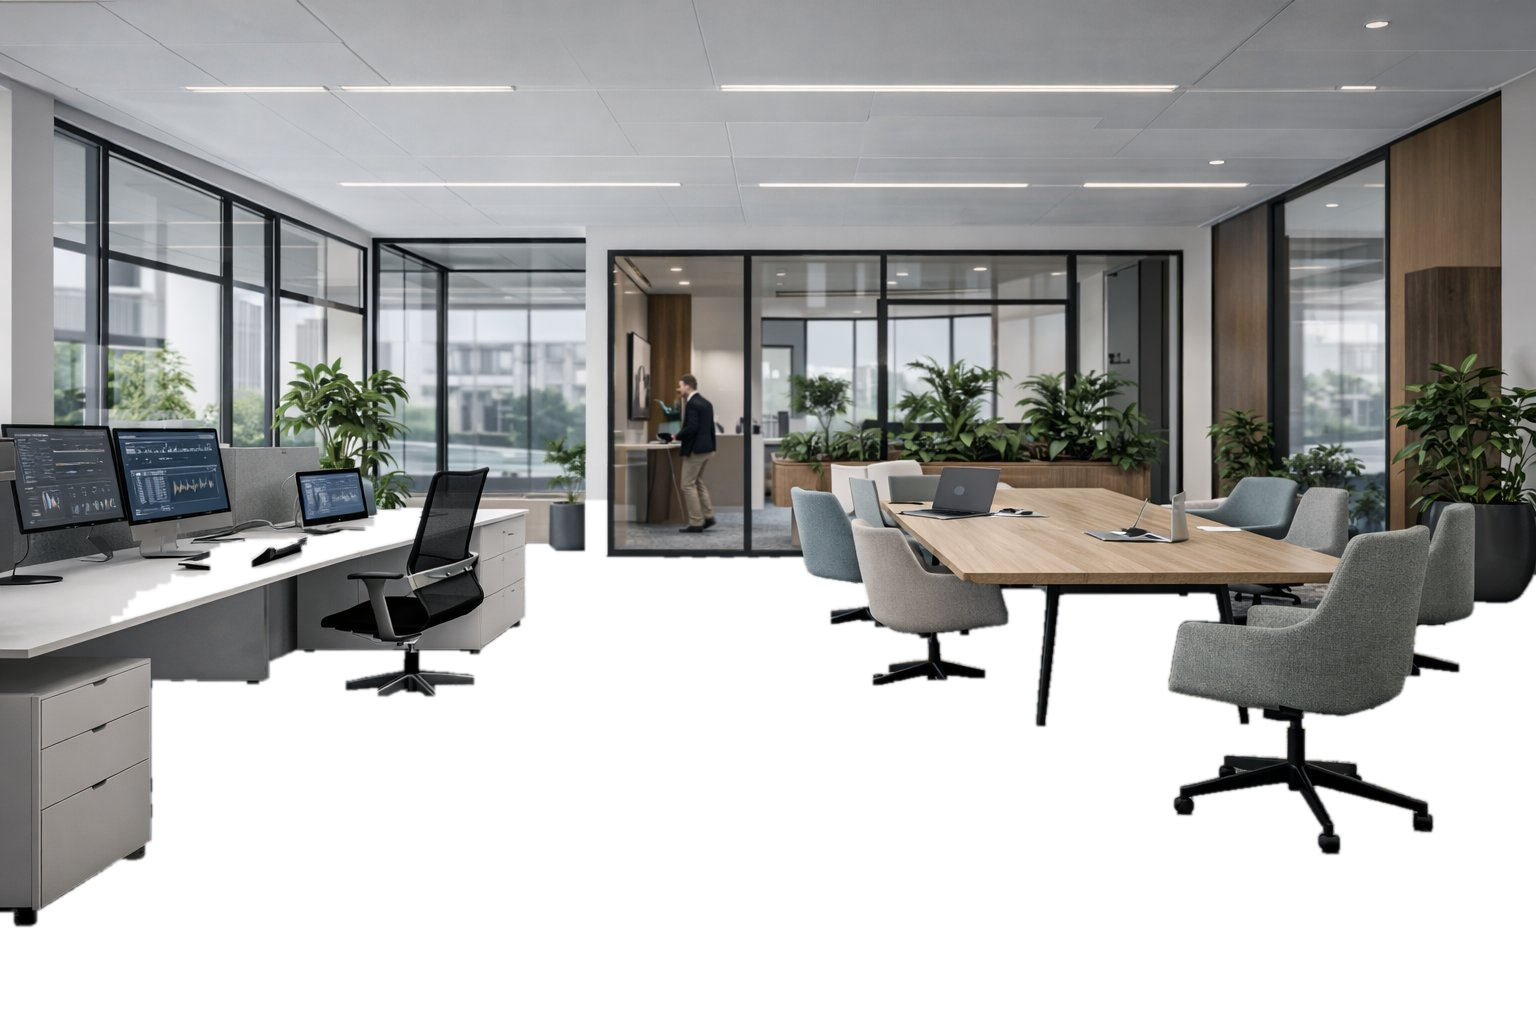
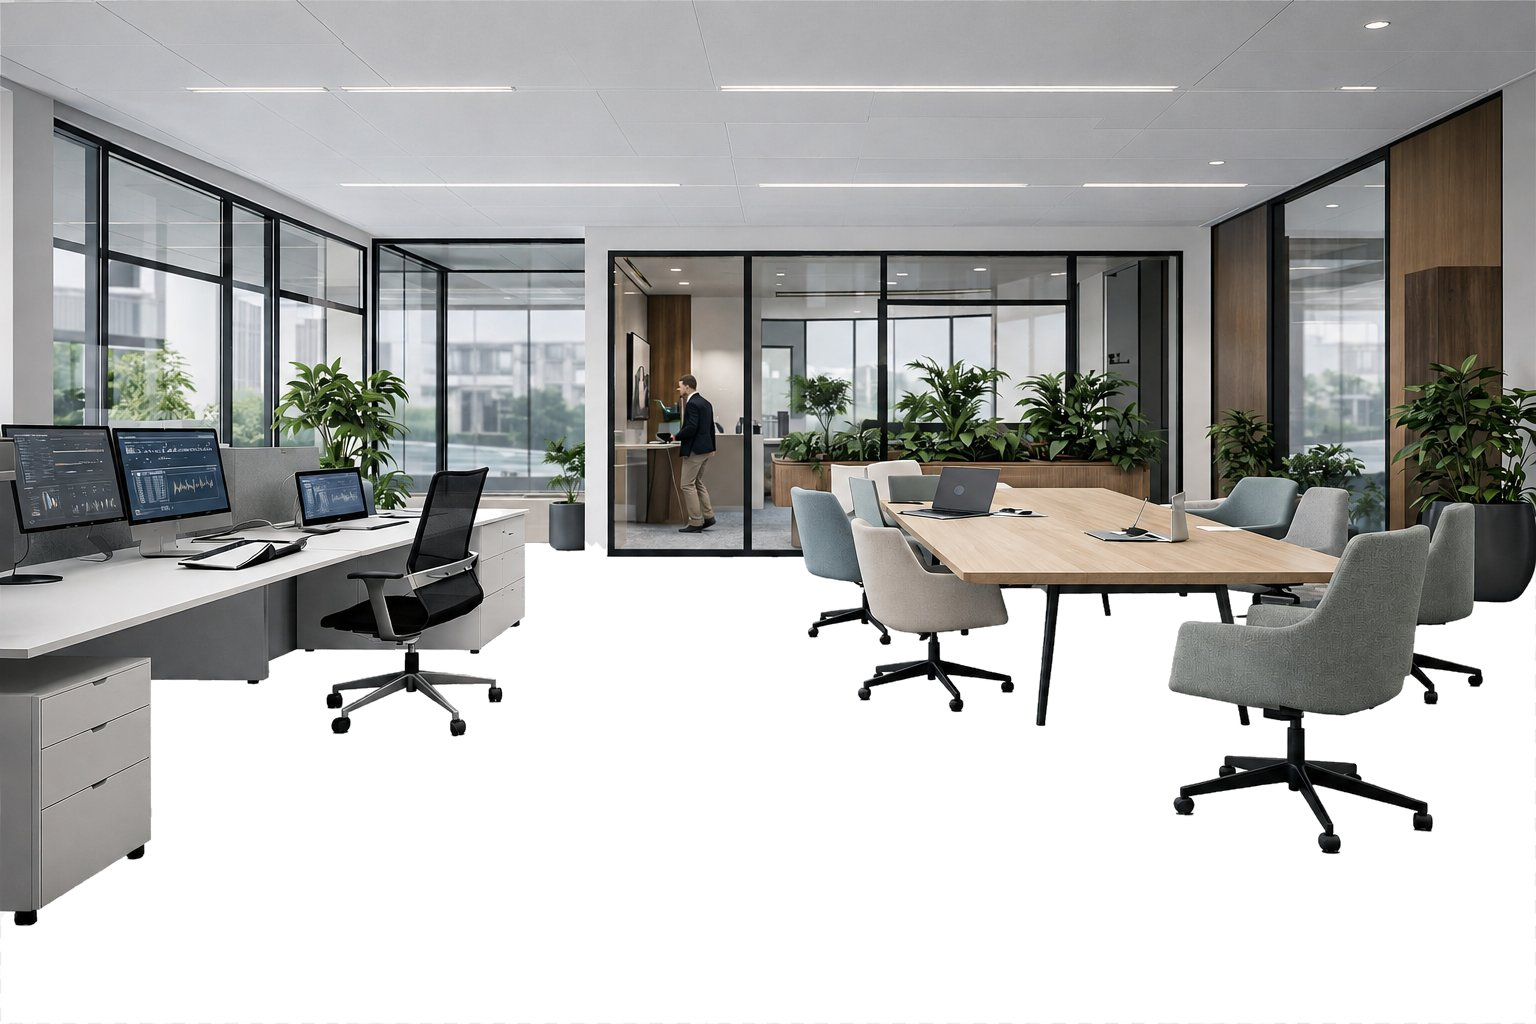
Floorvisualizer: meubellaag + dessinvlak fix; nieuwe stijl Hoogtelijnen

diff --git a/templates/index.html b/templates/index.html
@@ -63,6 +63,7 @@
           <button class="chip" onclick="setPrompt('chevronbold patroon, gevulde schuine plankjes, zwart wit')">Chevron Bold</button>
           <button class="chip" onclick="setPrompt('Alleen cirkels, strak en minimalistisch')">Cirkels</button>
           <button class="chip" onclick="setPrompt('Dots stippen patroon, polka dots')">Dots</button>
+          <button class="chip" onclick="setPrompt('hoogtelijnen patroon, style:hoogtelijnen, topografie contourlijnen')">Hoogtelijnen</button>
           <button class="chip" onclick="setPrompt('houndstooth patroon, hanenpoot pied-de-poule, zwart wit')">Houndstooth</button>
           <button class="chip" onclick="setPrompt('Scandinavisch knitwerk patroon, gebreide steken, zigzag banden in blauw en wit')">Knitwerk</button>
           <button class="chip" onclick="setPrompt('Medaillon geometrisch tegelmotief, donkerblauw en diep rood met gouden accenten')">Medaillon</button>
@@ -434,6 +435,6 @@
       </div>
     </div>
   </div>
-  <script src="/static/js/app.js?v=20260612_100122"></script>
+  <script src="/static/js/app.js?v=20260612_162058"></script>
 </body>
 </html>

diff --git a/static/js/app.js b/static/js/app.js
@@ -418,7 +418,7 @@ document.addEventListener('DOMContentLoaded', () => {
 (function(){
   var SRC = 600;
   /* vloer-hoekpunten als fractie van de scene (TL,TR,BL,BR) */
-  var FR = [[0.150,0.547],[0.814,0.547],[-0.230,1.0],[1.107,1.0]];
+  var FR = [[0.150,0.547],[1.02,0.547],[-0.230,1.0],[1.107,1.0]];
   function adj(m){return [m[4]*m[8]-m[5]*m[7],m[2]*m[7]-m[1]*m[8],m[1]*m[5]-m[2]*m[4],m[5]*m[6]-m[3]*m[8],m[0]*m[8]-m[2]*m[6],m[2]*m[3]-m[0]*m[5],m[3]*m[7]-m[4]*m[6],m[1]*m[6]-m[0]*m[7],m[0]*m[4]-m[1]*m[3]];}
   function mmm(a,b){var c=[];for(var i=0;i<3;i++)for(var j=0;j<3;j++){var s=0;for(var k=0;k<3;k++)s+=a[3*i+k]*b[3*k+j];c[3*i+j]=s;}return c;}
   function mmv(m,v){return [m[0]*v[0]+m[1]*v[1]+m[2]*v[2],m[3]*v[0]+m[4]*v[1]+m[5]*v[2],m[6]*v[0]+m[7]*v[1]+m[8]*v[2]];}

diff --git a/modules_extra.py b/modules_extra.py
@@ -555,3 +555,63 @@ def generate_urban_plaid_svg(palette, tile_size, complexity):
     for y, w, col in bands:
         parts.append('<rect x="0" y="%.2f" width="%.1f" height="%.2f" fill="%s" opacity="%s"/>' % (y, T, w, col, op))
     return '\n'.join(parts)
+
+
+# ---- Hoogtelijnen (topografische contourlijnen) - naadloos ----
+def _topo_segments(T, complexity):
+    fmax = {'low':3.4,'medium':4.6,'high':6.2}.get(complexity,4.6)
+    levn = {'low':11,'medium':14,'high':18}.get(complexity,14)
+    G = 120
+    rng = random.Random(7)
+    comps=[]
+    for _ in range(28):
+        fr = rng.uniform(1.0,fmax); ang=rng.uniform(0,2*math.pi)
+        u = round(fr*math.cos(ang)); v=round(fr*math.sin(ang))
+        if u==0 and v==0: u=1
+        comps.append((u,v,1.0/fr,rng.uniform(0,2*math.pi)))
+    F=[[0.0]*(G+1) for _ in range(G+1)]
+    mn=1e9; mx=-1e9
+    for i in range(G+1):
+        y=i/G
+        for j in range(G+1):
+            x=j/G; s=0.0
+            for (u,vv,a,ph) in comps:
+                s+=a*math.cos(2*math.pi*(u*x+vv*y)+ph)
+            F[i][j]=s
+            if s<mn:mn=s
+            if s>mx:mx=s
+    rg=mx-mn or 1.0
+    for i in range(G+1):
+        for j in range(G+1):
+            F[i][j]=(F[i][j]-mn)/rg
+    def ep(L,ax,ay,av,bx,by,bv):
+        d=bv-av; t=0.5 if abs(d)<1e-12 else (L-av)/d
+        return (ax+(bx-ax)*t, ay+(by-ay)*t)
+    sc=T/G; segs=[]
+    levels=[0.06+(0.94-0.06)*k/(levn-1) for k in range(levn)]
+    for L in levels:
+        for i in range(G):
+            for j in range(G):
+                a=F[i][j]>=L; b=F[i][j+1]>=L; c=F[i+1][j+1]>=L; d=F[i+1][j]>=L
+                code=(a)|(b<<1)|(c<<2)|(d<<3)
+                if code==0 or code==15: continue
+                av=F[i][j]; bv=F[i][j+1]; cv=F[i+1][j+1]; dv=F[i+1][j]
+                P={}
+                if a!=b: P['T']=ep(L,j,i,av,j+1,i,bv)
+                if b!=c: P['R']=ep(L,j+1,i,bv,j+1,i+1,cv)
+                if c!=d: P['B']=ep(L,j+1,i+1,cv,j,i+1,dv)
+                if d!=a: P['L']=ep(L,j,i+1,dv,j,i,av)
+                e=list(P)
+                if len(e)==2:
+                    segs.append((P[e[0]],P[e[1]]))
+                elif len(e)==4:
+                    segs.append((P['T'],P['R'])); segs.append((P['B'],P['L']))
+    return [((p[0]*sc,p[1]*sc),(q[0]*sc,q[1]*sc)) for (p,q) in segs]
+
+def generate_hoogtelijnen_svg(palette, tile_size, complexity):
+    T=tile_size; k=_palet(palette); line=k[1]; lw=max(1.0, T/230.0)
+    segs=_topo_segments(T, complexity)
+    d=''.join('M{:.1f} {:.1f}L{:.1f} {:.1f}'.format(p[0],p[1],q[0],q[1]) for (p,q) in segs)
+    return ('<rect width="{T}" height="{T}" fill="{bg}"/>'
+            '<path d="{d}" stroke="{line}" stroke-width="{lw:.2f}" fill="none" stroke-linecap="round"/>'
+            ).format(T=T,bg=k[0],d=d,line=line,lw=lw)

diff --git a/app.py b/app.py
@@ -20,6 +20,7 @@ import anthropic
 from PIL import Image, ImageDraw
 from modules_extra import generate_strepen_svg, generate_mozaiek_svg, generate_chevron_svg, generate_hexagoon_svg, generate_ogee_svg, generate_diamant_svg, generate_terrazzo_svg, generate_vrije_vormen_svg, generate_visgraat_svg, generate_dots_svg, generate_visgraat_lijn_svg, generate_bamboe_svg, generate_artdeco_svg, generate_chevron_bold_svg, generate_houndstooth_svg, generate_urban_plaid_svg
 from modules_extra import generate_artdeco_svg, generate_artdeco_hex_svg
+from modules_extra import generate_hoogtelijnen_svg
 
 app = Flask(__name__)
 CORS(app)
@@ -433,6 +434,7 @@ STYLE_GENERATORS = {
     "terrazzo": generate_terrazzo_svg,
     "visgraat": generate_visgraat_lijn_svg,
     "dots": generate_dots_svg,
+    "hoogtelijnen": generate_hoogtelijnen_svg,
     "vrije_vormen": generate_vrije_vormen_svg,
     "bamboe": generate_bamboe_svg,
     "art_deco_hex": generate_artdeco_hex_svg,
@@ -448,6 +450,8 @@ def build_tile_svg(analysis: dict, tile_size: int = 400, motief_schaal: int = 10
         style = "bauhaus"
     elif style == "knitwerk" or any(w in p for w in ['knitwerk', 'knit', 'gebreid', 'breiwerk', 'fair isle', 'noorse trui', 'nordic', 'scandinavisch', 'noors', 'sneeuwvlok']):
         style = "knitwerk"
+    elif style == "hoogtelijnen" or any(w in p for w in ["hoogtelijn", "topografie", "contour"]):
+        style = "hoogtelijnen"
     elif any(w in p for w in ["streep", "strepen", "stripe"]):
         style = "strepen"
     elif any(w in p for w in ["mozaiek", "pixel", "blokje"]):
@@ -477,6 +481,8 @@ def build_tile_svg(analysis: dict, tile_size: int = 400, motief_schaal: int = 10
         pass
     elif style == "knitwerk":
         pass
+    elif style == "hoogtelijnen" or any(w in prompt_lower for w in ["hoogtelijn", "topografie", "contour"]):
+        style = "hoogtelijnen"
     elif any(w in prompt_lower for w in ["streep", "strepen", "stripe", "verticale lijn"]):
         style = "strepen"
     elif any(w in prompt_lower for w in ["mozaiek", "pixel", "blokje"]):
@@ -526,7 +532,7 @@ def build_tile_svg(analysis: dict, tile_size: int = 400, motief_schaal: int = 10
     if n < 1:
         n = 1
     g = TEGEL // n  # interne grootte waarop de generator tekent
-    extra_styles = ["bauhaus","knitwerk","strepen","mozaiek","chevron","chevron_bold","houndstooth","urban_plaid","hexagon","ogee","diamant","terrazzo","vrije_vormen","dots","dots","vlechtwerk","visgraat","batik","botanical","floral","nordic","persian","medallion","abstract","bamboe","art_deco","art_deco_hex"]
+    extra_styles = ["bauhaus","knitwerk","strepen","mozaiek","chevron","chevron_bold","houndstooth","urban_plaid","hexagon","ogee","diamant","terrazzo","vrije_vormen","dots","dots","hoogtelijnen","vlechtwerk","visgraat","batik","botanical","floral","nordic","persian","medallion","abstract","bamboe","art_deco","art_deco_hex"]
     default_shapes = ["octagon", "diamond", "circle", "square", "triangle", "hexagon", "star"]
     user_specified = any(s in default_shapes and s != "octagon" for s in shape_list)
     if style in extra_styles: